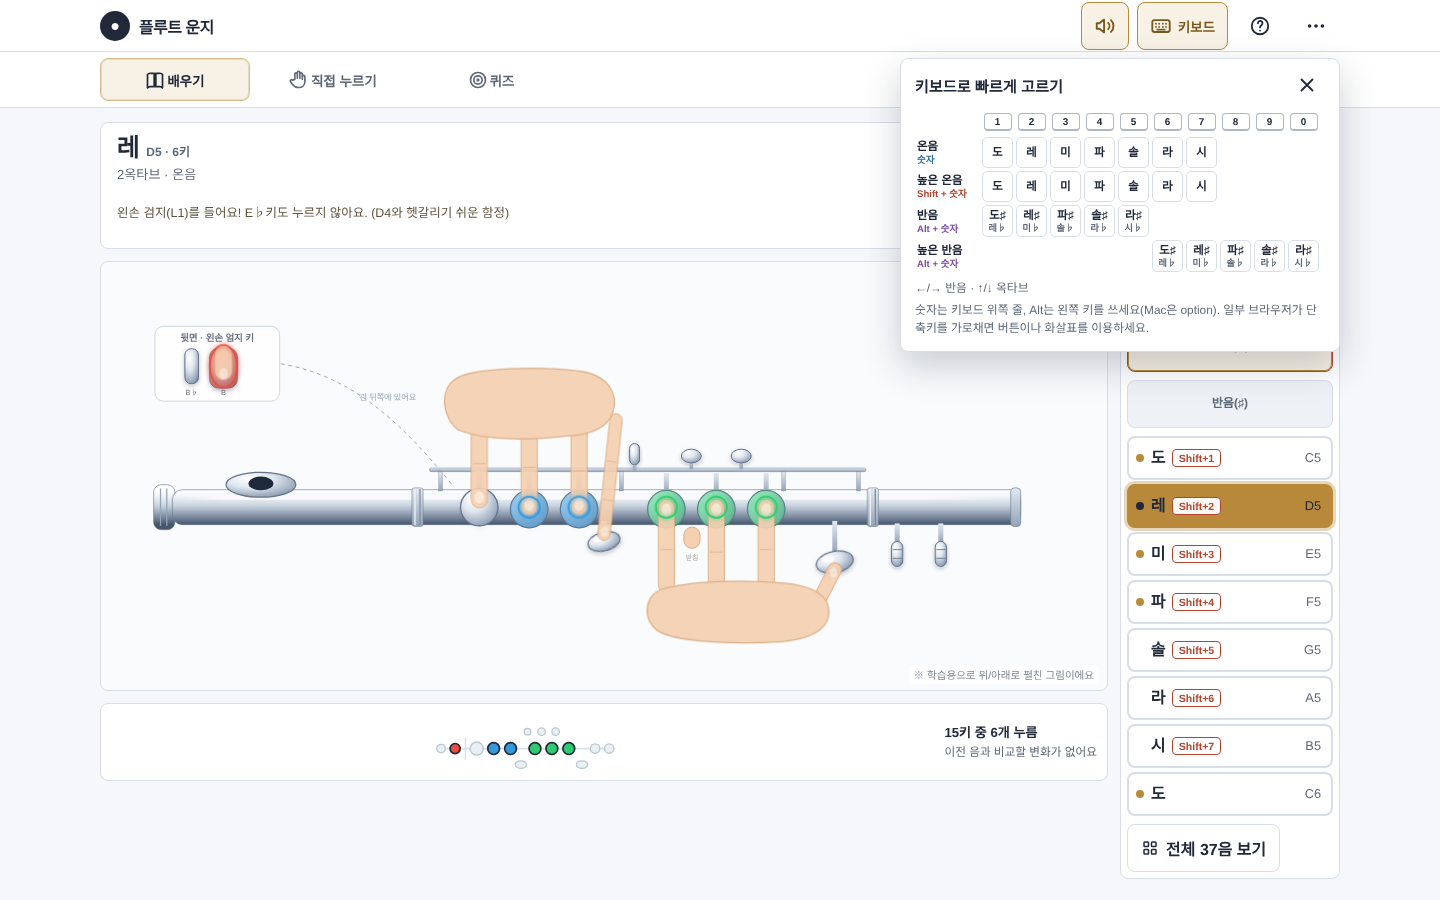
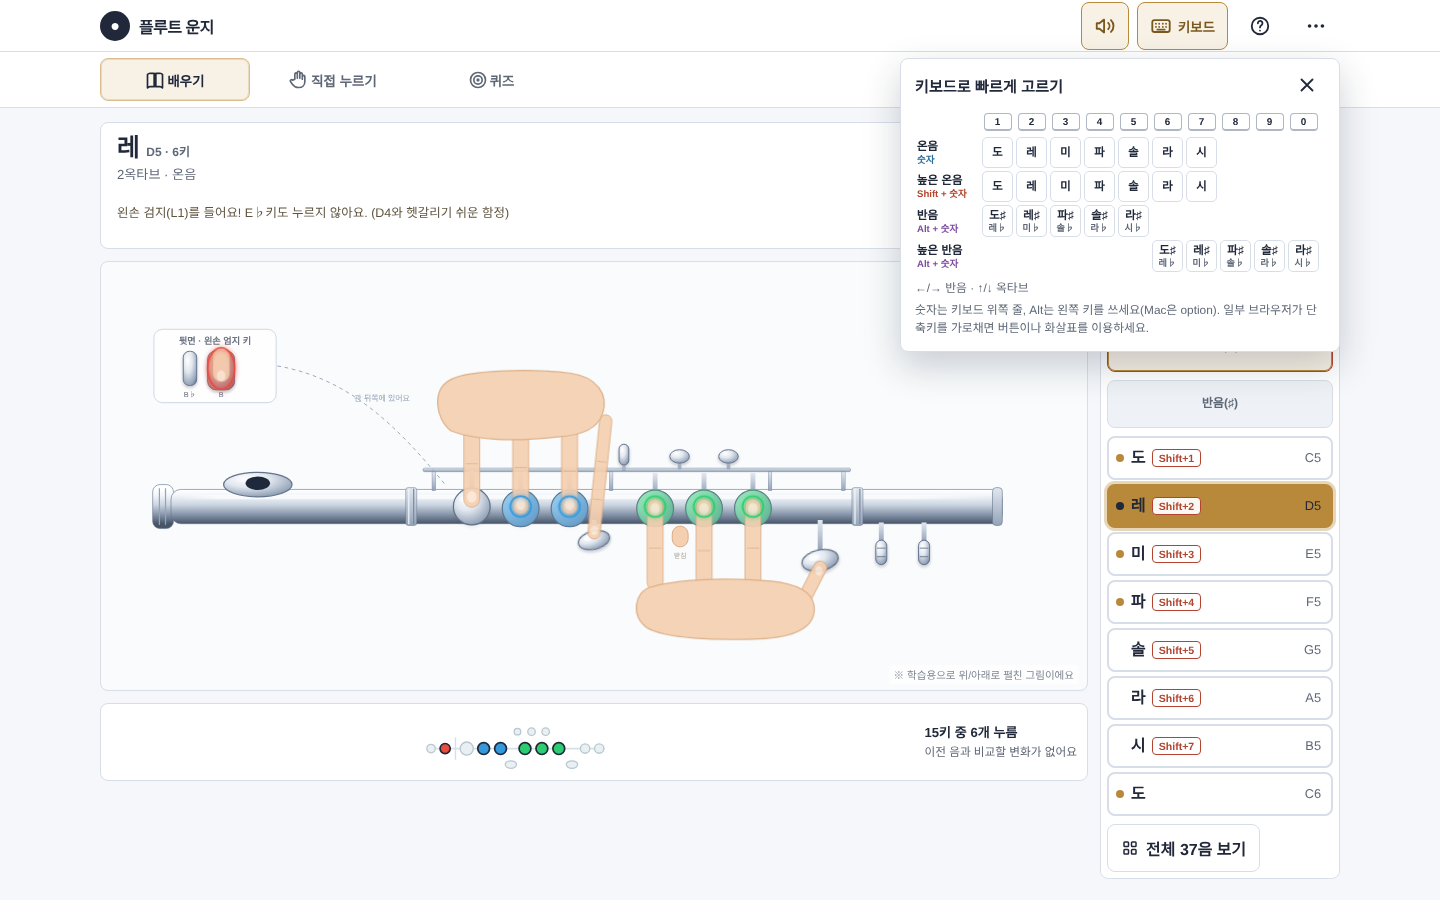
Use 240px for the 2D panel after measuring real Windows fonts
Checking the preview in the real Chrome (Windows, Noto Sans KR) showed
that the sharp/flat signs in the widest row ("도♯/레♭  Alt+1  C♯4/D♭4")
are one em wide there, so that row needs 233.5px, not the ~215px measured
on the headless Linux Chromium. With a 220px column the accidental tab
grew past it (safety net kicked in) and the column width changed when
switching tabs.

- index.html: column minmax(220px,min-content) -> minmax(240px,min-content)
  (6.5px of slack over the 233.5px measured on the real machine).
- 3d.html: stays at 220px (octave switch needs 210-213px); comment now
  says the 2D panel is 240px.
- docs/3d-view.md: document the per-page widths and the measured values.
- qa/screenshots 05 and 11 regenerated.

Claude-Session: https://claude.ai/code/session_01AGBZvwWJVfQoH8o65SEwUy

diff --git a/index.html b/index.html
@@ -559,10 +559,10 @@ body[data-mode="quiz2"] #note-info .summary-actions{display:none}
   }
   .mode-button{min-width:150px;min-height:42px;flex-direction:row;font-size:.84rem;padding:0 16px}
   /* 오른쪽 계이름 목록(세로 1열)이 왼쪽 열보다 길어도, 남는 높이는 '운지 요약' 줄(1fr)이 받는다 → 운지 그림과 요약 사이가 벌어지지 않는다.
-     오른쪽 열 폭은 220px로 좁게 고정한다(가장 넓은 줄, 반음 「도♯/레♭ [Alt+1] C♯4/D♭4」가 한 줄에 들어가는 최소 폭이 약 215px).
-     min-content는 안전장치: 쓰는 컴퓨터의 글꼴이 달라 내용이 더 넓어지면 그만큼만 저절로 넓어져서, 글자가 잘리거나 삐져나오지 않는다.
-     (이 폭은 3d.html의 오른쪽 패널과 같게 맞춘다.) */
-  main#app-main{display:grid;grid-template-columns:minmax(0,1fr) minmax(220px,min-content);grid-template-rows:auto auto 1fr auto;grid-template-areas:
+     오른쪽 열 폭은 240px로 좁게 고정한다. 가장 넓은 줄, 반음 「도♯/레♭ [Alt+1] C♯4/D♭4」가 한 줄에 들어가는 최소 폭은 컴퓨터 글꼴에 따라
+     약 215px(♯·♭가 좁은 글꼴)에서 약 234px(Windows의 Noto Sans KR처럼 ♯·♭가 글자 한 칸 폭인 글꼴)까지 달라서, 가장 넓은 경우에 맞춰 두었다.
+     min-content는 안전장치: 글꼴이 더 넓어서 내용이 240px를 넘으면 그만큼만 저절로 넓어져서, 글자가 잘리거나 삐져나오지 않는다. */
+  main#app-main{display:grid;grid-template-columns:minmax(0,1fr) minmax(240px,min-content);grid-template-rows:auto auto 1fr auto;grid-template-areas:
     "summary summary"
     "stage selector"
     "overview selector"

diff --git a/3d.html b/3d.html
@@ -217,8 +217,9 @@ footer{padding:6px 12px 22px;text-align:center;color:#7e8794;font-size:.72rem;li
 @media (min-width:1024px){
   #app-topbar{padding:0 max(20px,calc((100vw - 1240px)/2))}
   /* 오른쪽 패널(세로 목록)이 왼쪽 열보다 길어도, 남는 높이는 맨 아래 줄(1fr)이 받는다 → 3D 화면과 손가락 요약 사이가 벌어지지 않는다.
-     오른쪽 열 폭은 220px로 좁게 고정한다(index.html의 2D 계이름 패널과 같은 폭. 이 패널 안에서는 옥타브 3칸 ≈ 188px이 가장 넓다).
-     min-content는 안전장치: 쓰는 컴퓨터의 글꼴이 달라 내용이 더 넓어지면 그만큼만 저절로 넓어져서, 글자가 잘리거나 삐져나오지 않는다. */
+     오른쪽 열 폭은 220px로 좁게 고정한다. 이 패널에서 가장 넓은 것은 옥타브 3칸이고, 그 칸들이 줄바꿈 없이 들어가는 패널 폭은
+     약 210~213px이다(2D 패널은 반음 줄 때문에 240px).
+     min-content는 안전장치: 쓰는 컴퓨터의 글꼴이 달라 내용이 220px를 넘으면 그만큼만 저절로 넓어져서, 글자가 잘리거나 삐져나오지 않는다. */
   main#app-main{
     display:grid;grid-template-columns:minmax(0,1fr) minmax(220px,min-content);grid-template-rows:auto auto 1fr;align-items:start;
     grid-template-areas:"summary summary" "viewer panel" "fingers panel"

diff --git a/docs/3d-view.md b/docs/3d-view.md
@@ -55,7 +55,7 @@ node qa/check-3d-data.mjs
 
 - **옥타브 3칸 + 계이름 버튼 목록**: 「1옥타브 낮은 음 / 2옥타브 가운데 음 / 3옥타브 높은 음」 중 고른 옥타브의 계이름 버튼만 보입니다(나머지는 `hidden`이라 탭 순서에서도 빠집니다).
 - **계이름 버튼은 1열 종대(세로 한 줄)**: 낮은 음 → 높은 음 순서로 반음 단위 12개(3옥타브는 C7까지 13개)를 위에서 아래로 쌓습니다. 흰 버튼은 온음, 검은 버튼은 반음(♯)이고, 왼쪽에 한글 계이름 · 오른쪽에 영문 음이름이 놓입니다. 버튼은 폭이 패널 가득, 높이가 44px 이상이라 손가락으로 누르기 좋습니다. 데스크톱(1024px 이상)에서는 패널이 오른쪽 열에 `position: sticky`로 놓이는데, 세로 목록 때문에 패널이 왼쪽 열보다 길어질 수 있어서 그리드 세 번째 행을 `1fr`로 두었습니다(남는 높이를 맨 아래 행이 받아서 3D 화면과 손가락 요약 사이가 벌어지지 않습니다). 화면이 낮은 노트북에서는 페이지를 조금 내려 아래쪽 버튼과 「보기 설정」을 봅니다. 모바일·태블릿(1024px 미만)에서는 패널이 3D 화면 아래에 이어지고, 화면 높이가 600px 이상이면 3D 화면이 위에 고정된 채 버튼 목록이 그 아래로 지나갑니다.
-- **패널 폭(데스크톱) 220px**: 1024px 이상에서 오른쪽 열은 예전에 360px였는데, 줄 안의 글자는 한참 모자라서 오른쪽이 빈 공간이었습니다. 지금은 **220px**로 좁혀서(2D 계이름 패널과 같은 폭) 그만큼(140px) 3D 화면이 넓어졌습니다. 패널 안에서 가장 넓은 것은 옥타브 3칸(글자 한 줄 기준 약 188px + 패널 안쪽 여백 22px ≈ 210px)이라, 이 패널만 보면 210px까지 줄일 수 있습니다. 2D 패널의 반음 줄이 약 215px라서 두 패널을 같은 폭으로 맞췄습니다. 열 폭은 `grid-template-columns: minmax(0,1fr) minmax(220px,min-content)`입니다. **220px로 고정**하되(탭 · 옥타브 · 「보기 설정」을 바꿔도 폭이 안 변함), 쓰는 컴퓨터의 글꼴이 달라 내용이 220px보다 넓어지면 `min-content`가 안전장치가 되어 그만큼만 저절로 넓어지므로 글자가 잘리거나 삐져나오지 않습니다. 그 안전장치가 옥타브 3칸에도 닿도록 데스크톱에서는 `.octave-switch`를 `repeat(3, minmax(max-content, 1fr))`로 두었습니다(글자가 한 줄에 들어가는 폭 아래로는 줄지 않음). 「보기 설정」의 설명 글은 줄바꿈되므로 폭을 키우지 않습니다. 1024px 미만(모바일·태블릿)은 그대로 화면 가득입니다.
+- **패널 폭(데스크톱) 220px**: 1024px 이상에서 오른쪽 열은 예전에 360px였는데, 줄 안의 글자는 한참 모자라서 오른쪽이 빈 공간이었습니다. 지금은 **220px**로 좁혀서 그만큼(140px) 3D 화면이 넓어졌습니다. 이 패널에서 가장 넓은 것은 옥타브 3칸이고, 그 칸들이 줄바꿈 없이 들어가는 패널 폭은 약 210~213px입니다(Linux 헤드리스 Chromium 210.4px, Windows Chrome 212.8px). 거기에 몇 px 여유를 둔 값이 220px입니다(2D 패널은 반음 줄 때문에 240px). 열 폭은 `grid-template-columns: minmax(0,1fr) minmax(220px,min-content)`입니다. **220px로 고정**하되(옥타브 · 「보기 설정」을 바꿔도 폭이 안 변함), 쓰는 컴퓨터의 글꼴이 달라 내용이 220px보다 넓어지면 `min-content`가 안전장치가 되어 그만큼만 저절로 넓어지므로 글자가 잘리거나 삐져나오지 않습니다. 그 안전장치가 옥타브 3칸에도 닿도록 데스크톱에서는 `.octave-switch`를 `repeat(3, minmax(max-content, 1fr))`로 두었습니다(글자가 한 줄에 들어가는 폭 아래로는 줄지 않음). 「보기 설정」의 설명 글은 줄바꿈되므로 폭을 키우지 않습니다. 1024px 미만(모바일·태블릿)은 그대로 화면 가득입니다.
 - **목록 안에서는 스크롤하지 않음**: 버튼이 모두 펼쳐져 있어서 고른 음을 목록 가운데로 가져오는 코드는 없습니다. 음이 바뀌어도(탭 · 숫자 단축키 · ←/→/↑/↓ · 이전/다음 · 자동 재생) 페이지 스크롤 위치는 그대로이고, 옥타브가 바뀌면 그 옥타브의 목록이 열립니다. 목록에 스크롤 영역이 없어서 포커스 링(3px+2px)과 선택한 버튼의 빛(3px)이 잘리지 않습니다.
 - **옥타브 버튼 = 지금 음을 같은 계이름으로 옮김**: D♯5에서 「3옥타브」를 누르면 D♯6이 됩니다(↑/↓ 키와 같은 동작). 그래서 보이는 목록에는 항상 선택한 음이 있습니다. 키보드(숫자 단축키 · ←/→/↑/↓), 이전/다음 버튼, 자동 재생으로 음이 바뀌어도 목록이 그 옥타브로 따라갑니다.
 - **선택한 음**은 금색(`--accent`) 채움 하나로 표시합니다(예전의 ✓ 배지는 뺐습니다). 강제 색상 모드에서는 3px 윤곽선으로 보입니다.
@@ -69,7 +69,7 @@ node qa/check-3d-data.mjs
 
 - **탭 3개**(낮은 계이름 8개 · 높은 계이름 8개 · 반음(♯) 10개) 중 고른 탭의 버튼만 `#selector-grid`에 세로로 쌓입니다. 탭 동작과 접근성 속성(`role="tablist"`, ←/→ 이동)은 그대로입니다.
 - **버튼 한 줄**(`.group-note-btn`): 왼쪽에 한글 이름(반음은 「도♯/레♭」을 한 줄로), 그 바로 옆에 **단축키 배지**(`1` · `Shift+1` · `Alt+1` …, 마우스 화면에서만 보임), 오른쪽 끝에 영문 음이름이 놓입니다. 팁이 있는 음은 왼쪽 여백에 금색 점이 붙습니다. 높이 44px 이상, 폭은 패널 가득이고, 고른 음은 3D처럼 금색 채움입니다(예전의 ✓ 배지는 뺐고, 강제 색상 모드에서는 3px 윤곽선). 「전체 37음 보기」 시트(`#all-notes-sheet`)의 버튼(`.note-btn`)도 **같은 한 줄 모양**입니다. 1·2·3옥타브 묶음(12 · 12 · 13개)마다 세로로 쌓이고, CSS 규칙은 `.group-note-btn`과 함께 씁니다. 줄을 누르면 시트가 닫히고 그 음이 골라집니다.
-- **패널 폭(데스크톱) 220px**: 1024px 이상에서 오른쪽 열은 예전에 360px였지만 줄 안의 글자는 훨씬 모자라 빈 공간이 많았습니다. 지금은 **220px**(3D 패널과 같은 폭)이라 운지 그림 칸이 그만큼(140px) 넓어졌습니다. 220px는 가장 넓은 줄, 반음 탭의 「도♯/레♭ · `Alt+1` · C♯4/D♭4」가 한 줄에 들어가는 최소 폭(약 215px)에 맞춘 값입니다. 이를 위해 **데스크톱 패널에서만** 독(`#selector-dock`)의 안쪽 여백을 8→6px, 줄(`.group-note-btn`)의 안쪽 여백을 왼쪽 26→22px · 오른쪽 14→10px, 한글 이름 · 단축키 배지 · 영문 이름 사이 간격을 10→6px, 정보 점의 위치를 9→7px로 줄였습니다(`#selector-dock .group-note-btn` 규칙, `@media (min-width:1024px)` 안). 열 폭은 `minmax(220px,min-content)`로 **220px 고정 + 안전장치**입니다. 탭을 바꿔도 폭이 안 변하고(낮은 · 높은 탭은 줄이 훨씬 짧습니다), 쓰는 컴퓨터의 글꼴이 달라 반음 줄이 220px보다 넓어지면 그만큼만 저절로 넓어져서 글자가 잘리거나 삐져나오지 않습니다. 1024px 미만(모바일·태블릿)의 목록과 「전체 37음 보기」 시트의 줄(`.note-btn`)은 이전 모양 그대로입니다.
+- **패널 폭(데스크톱) 240px**: 1024px 이상에서 오른쪽 열은 예전에 360px였지만 줄 안의 글자는 훨씬 모자라 빈 공간이 많았습니다. 지금은 **240px**라서 운지 그림 칸이 그만큼(120px) 넓어졌습니다. 240px는 가장 넓은 줄, 반음 탭의 「도♯/레♭ · `Alt+1` · C♯4/D♭4」가 한 줄에 들어가는 최소 폭에 맞춘 값입니다. 이 최소 폭은 컴퓨터 글꼴에 따라 달라서, ♯·♭가 좁은 글꼴에서는 약 215px(Linux 헤드리스 Chromium), Windows Chrome에서 Noto Sans KR을 쓰면 ♯·♭가 글자 한 칸(1em) 폭이라 233.5px입니다. 가장 넓은 경우(233.5px)에 여유 6px 남짓을 더해 240px로 잡았습니다. 이를 위해 **데스크톱 패널에서만** 독(`#selector-dock`)의 안쪽 여백을 8→6px, 줄(`.group-note-btn`)의 안쪽 여백을 왼쪽 26→22px · 오른쪽 14→10px, 한글 이름 · 단축키 배지 · 영문 이름 사이 간격을 10→6px, 정보 점의 위치를 9→7px로 줄였습니다(`#selector-dock .group-note-btn` 규칙, `@media (min-width:1024px)` 안). 열 폭은 `minmax(240px,min-content)`로 **240px 고정 + 안전장치**입니다. 탭을 바꿔도 폭이 안 변하고(낮은 · 높은 탭은 줄이 훨씬 짧습니다), 글꼴이 더 넓어서 반음 줄이 240px보다 넓어지면 그만큼만 저절로 넓어져서 글자가 잘리거나 삐져나오지 않습니다(그 경우에만 반음 탭에서 폭이 몇 px 달라집니다). 1024px 미만(모바일·태블릿)의 목록과 「전체 37음 보기」 시트의 줄(`.note-btn`)은 이전 모양 그대로입니다.
 - **목록 안에서는 스크롤하지 않습니다**(스크롤은 페이지 하나뿐). 데스크톱(1024px 이상)에서는 패널이 오른쪽 열에 놓이는데, 목록이 길어진 만큼 레이아웃 그리드의 세 번째 행을 `1fr`로 두어(남는 높이를 「운지 요약」 행이 받음) 운지 그림과 요약 사이가 벌어지지 않습니다. 패널에는 탭 · 목록 · 「전체 37음 보기」 버튼만 있어서(키보드 안내 표는 아래 「헤더의 키보드 메뉴」로 옮김) 1440×900 화면에서 목록 8줄과 「전체 37음 보기」가 첫 화면에 다 들어옵니다.
 - **헤더의 「키보드」 메뉴** (`#kbd-menu-btn` · `#kbd-menu`): 예전에 패널 위쪽에 있던 「키보드로 빠르게 고르기」 안내 표(숫자 1~0 × 온음 · 높은 온음 · 반음 · 높은 반음, 4줄 · 24칸)를 **상단 헤더의 버튼**으로 옮겼습니다. 헤더 순서는 소리 · **키보드** · 도움말 · 더보기이고, 640px 이상에서는 아이콘 옆에 「키보드」 글자가 붙고 그보다 좁으면 아이콘만 보입니다(접근성 이름은 「키보드 안내」).
   - 누르면 버튼 아래에 **떠 있는 상자**(`role="region"`, 폭 최대 440px, 키가 작은 창에서는 상자 안에서 스크롤)가 열립니다. 다른 창을 덮는 팝업(모달)이 아니라서 **열어 둔 채로 숫자 키를 눌러도 음이 바뀌고 그 칸이 반짝입니다.** 표 코드(`buildKeyboardGuide()` · `shortcutTableMarkup()` · `flashShortcut()`)는 그대로이고 도움말 창의 표도 같은 함수를 씁니다.
@@ -123,7 +123,7 @@ node qa/check-3d-data.mjs
 - 계이름 버튼은 세로 한 줄(1열)로 쌓이고 폭이 모두 같다. 어떤 음을 골라도 그 버튼이 금색으로 채워지고, 목록 안에서는 스크롤되지 않는다(페이지만 스크롤). 모바일에서는 3D 화면이 위에 고정된 채 버튼이 그 아래로 지나가고, 화면 높이가 낮은 노트북에서는 페이지를 조금 내려 아래쪽 버튼과 「보기 설정」을 본다.
 - 키보드 숫자 1~7(도~시) · Shift+1~7(높은 도~시) · Alt+1~5(반음) · Alt+6~0(높은 반음)으로 2D·3D 모두 같은 음이 골라진다(24개). 2D에서는 그 단축키의 탭(낮은 계이름 · 높은 계이름 · 반음)이 펼쳐지고, 헤더의 「키보드」 메뉴를 열어 두었다면 안내 표의 그 칸이 반짝인다. Windows에서는 Alt를 왼쪽 키로 누른다(오른쪽 Alt는 한/영 키).
 - 2D 헤더의 「키보드」 메뉴(마우스 화면): 소리와 도움말 버튼 사이에 있고, 누르면 안내 표가 버튼 아래에 열린다. 오른쪽 패널에는 더 이상 안내 표가 없다. 열린 채로 숫자 키를 눌러도 음이 바뀐다. 같은 버튼 · × · Esc · 바깥 누르기로 닫히고, 도움말 · 전체 37음 시트를 열거나 퀴즈로 바꾸면 저절로 닫힌다. 퀴즈(10문제) · 직접 누르기와 터치 기기에서는 버튼이 보이지 않는다.
-- 데스크톱(1024px 이상)에서 2D 계이름 패널과 3D 오른쪽 패널의 폭이 **220px**로 같다. 2D 탭(낮은 · 높은 · 반음)이나 3D 옥타브 · 「보기 설정」을 바꿔도 폭이 변하지 않고(운지 그림 · 3D 화면이 흔들리지 않음), 반음 탭의 줄(도♯/레♭ · Alt+1 · C♯4/D♭4), 옥타브 3칸, 「보기 설정」의 설명 글과 키보드 안내가 잘리거나 겹치지 않는다. 모바일·태블릿(1024px 미만)은 예전처럼 화면 가득이다.
+- 데스크톱(1024px 이상)에서 2D 계이름 패널은 **240px**, 3D 오른쪽 패널은 **220px**이다. 2D 탭(낮은 · 높은 · 반음)이나 3D 옥타브 · 「보기 설정」을 바꿔도 폭이 변하지 않고(운지 그림 · 3D 화면이 흔들리지 않음), 반음 탭의 줄(도♯/레♭ · Alt+1 · C♯4/D♭4), 옥타브 3칸, 「보기 설정」의 설명 글과 키보드 안내가 잘리거나 겹치지 않는다. 모바일·태블릿(1024px 미만)은 예전처럼 화면 가득이다.
 - 2D 계이름 선택 패널: 탭 3개(낮은 · 높은 · 반음) 모두 버튼이 세로 한 줄(1열)로 쌓이고 폭이 같다. 고른 음이 금색으로 채워지고, 단축키 배지(마우스 화면)가 한글 이름 옆에 있으며 영문 이름과 겹치지 않는다. 모바일에서는 운지 그림이 위에 고정된 채 버튼이 그 아래로 지나가고(가로로 돌리면 고정되지 않음), 스피드 연습에서는 문제가 버튼 목록 위에 나온다. 「전체 37음 보기」 시트도 줄이 세로 한 줄로 쌓이고(옥타브 묶음별 12 · 12 · 13개), 줄을 누르면 시트가 닫히며 그 음이 선택된다.
 - 앱을 한 번 연 뒤 오프라인에서 2D·3D 화면이 각각 제대로 열린다.
 - WebGL을 끈 브라우저에서 안내 문구와 2D 링크가 나온다.
